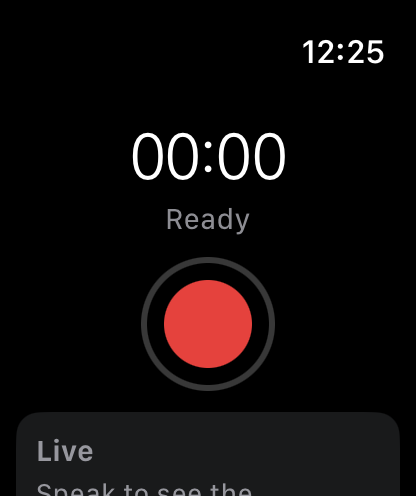
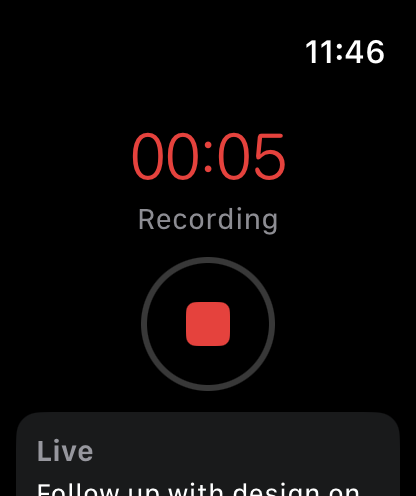
add watch demo mode and recapture recording-state screenshot

diff --git a/MurmurWatchApp/Support/MurmurWatchAppContainer.swift b/MurmurWatchApp/Support/MurmurWatchAppContainer.swift
@@ -10,11 +10,27 @@ final class MurmurWatchAppContainer {
     }
 
     static func live() -> MurmurWatchAppContainer {
-        MurmurWatchAppContainer(
+#if DEBUG
+        let demoMode = ProcessInfo.processInfo.environment["MURMUR_UI_DEMO_MODE"] == "1"
+#else
+        let demoMode = false
+#endif
+        let recorder: AudioRecorder
+        let transcriber: Transcriber
+
+        if demoMode {
+            recorder = MockAudioRecorder(levelSamples: [0.2, 0.4, 0.6, 0.45], transcriptSamples: Self.demoTranscript)
+            transcriber = MockTranscriber(liveSegments: Self.demoTranscript, fileSegments: Self.demoTranscript)
+        } else {
+            recorder = LiveAudioRecorder()
+            transcriber = SpeechTranscriber()
+        }
+
+        return MurmurWatchAppContainer(
             recordViewModel: WatchRecordViewModel(
-                recorder: LiveAudioRecorder(),
-                transcriber: SpeechTranscriber(),
-                memoStore: .shared,
+                recorder: recorder,
+                transcriber: transcriber,
+                memoStore: demoMode ? MemoStore() : .shared,
                 recordingDirectoryProvider: WatchRecordViewModel.defaultRecordingDirectory,
                 uuidProvider: UUID.init,
                 dateProvider: Date.init,
@@ -22,4 +38,11 @@ final class MurmurWatchAppContainer {
             )
         )
     }
+
+#if DEBUG
+    static let demoTranscript = [
+        TranscriptSegment(text: "We kicked off the release and walked through the new screen.", startTime: 0, endTime: 3),
+        TranscriptSegment(text: "Follow up with design on the waveform.", startTime: 3, endTime: 6)
+    ]
+#endif
 }

diff --git a/MurmurWatchApp/Views/WatchContentView.swift b/MurmurWatchApp/Views/WatchContentView.swift
@@ -4,6 +4,7 @@ import MurmurCore
 @MainActor
 struct WatchContentView: View {
     @State private var container: MurmurWatchAppContainer
+    @State private var didStartDemo = false
 
     init(container: MurmurWatchAppContainer) {
         _container = State(initialValue: container)
@@ -23,6 +24,14 @@ struct WatchContentView: View {
             .padding(.vertical, 4)
         }
         .navigationTitle("Murmur")
+        .task {
+#if DEBUG
+            guard !didStartDemo,
+                  ProcessInfo.processInfo.environment["MURMUR_UI_DEMO_RECORDING"] == "1" else { return }
+            didStartDemo = true
+            await recorder.startRecording()
+#endif
+        }
     }
 
     private var timer: some View {
